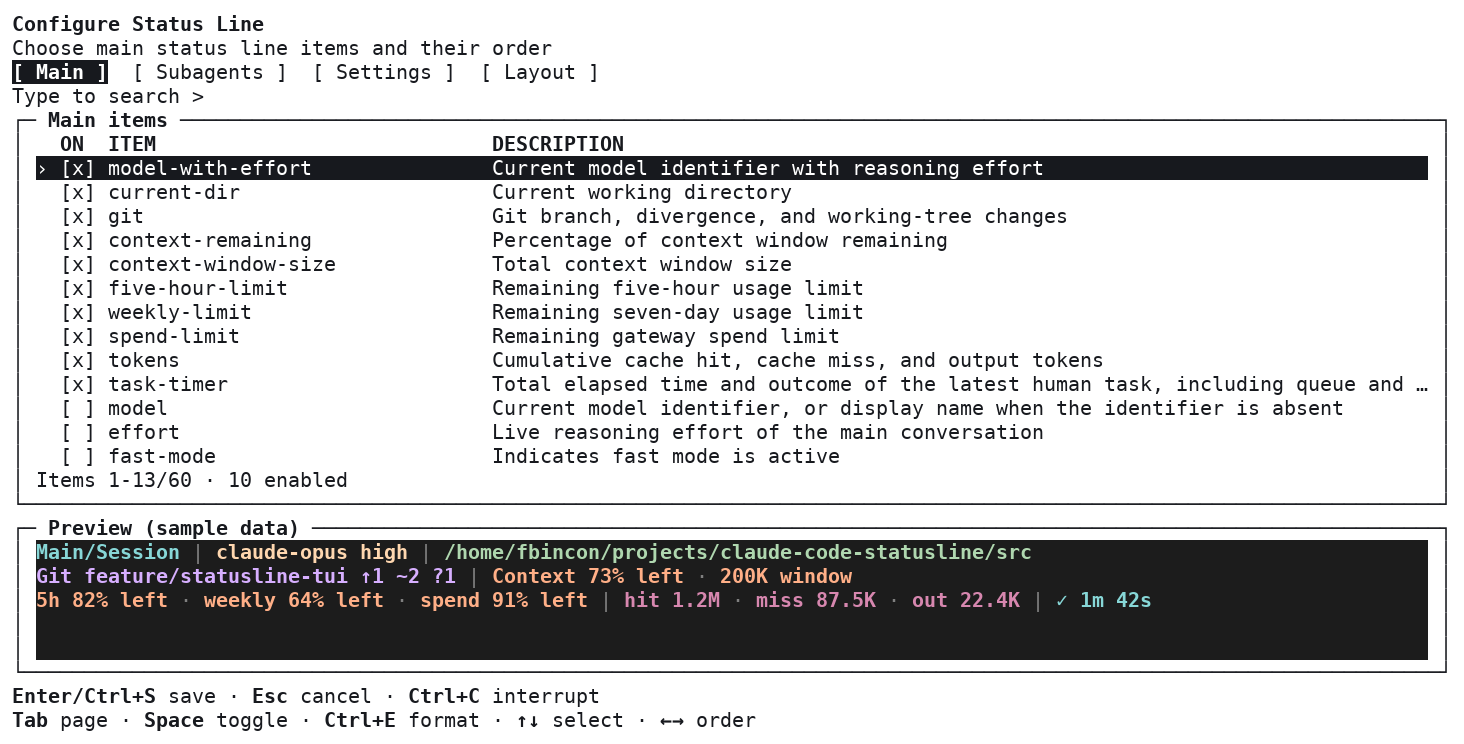
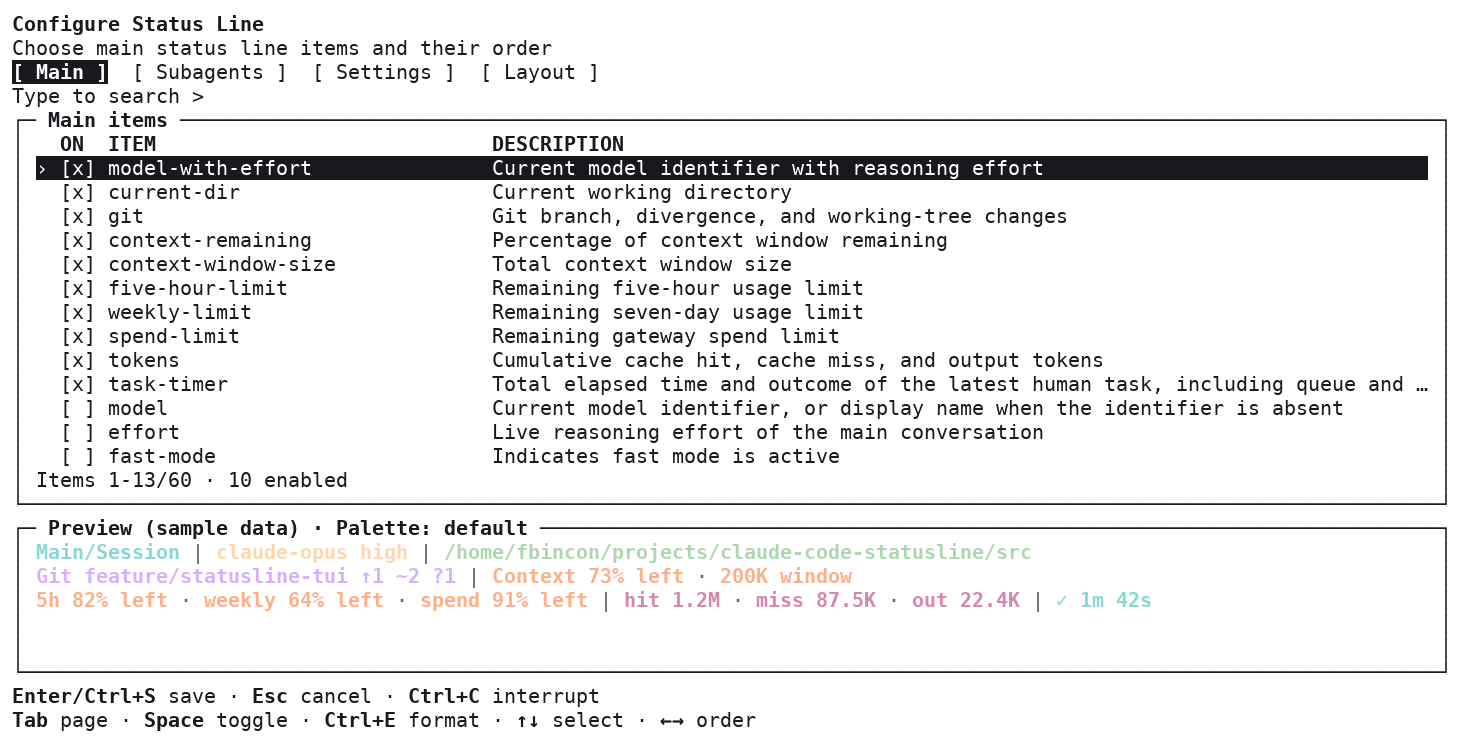
docs: compare default and ANSI previews on terminal backgrounds

Changed region(s): [[0.0, 0.6801, 0.9836, 0.8965]]

diff --git a/docs/images/README.md b/docs/images/README.md
@@ -38,7 +38,9 @@ images/
 │       │   ├── layout.png
 │       │   └── themes/
 │       │       ├── main-light.png
-│       │       └── main-dark.png
+│       │       ├── main-light-ansi.png
+│       │       ├── main-dark.png
+│       │       └── main-dark-ansi.png
 │       ├── windows/
 │       │   ├── main.png
 │       │   ├── subagents.png
@@ -46,7 +48,9 @@ images/
 │       │   ├── layout.png
 │       │   └── themes/
 │       │       ├── main-light.png
-│       │       └── main-dark.png
+│       │       ├── main-light-ansi.png
+│       │       ├── main-dark.png
+│       │       └── main-dark-ansi.png
 │       └── macos/
 │           ├── main.png
 │           ├── subagents.png
@@ -148,13 +152,15 @@ Two additional Linux images were reconstructed on 2026-10-09 from actual Claude 
 
 ## External terminal color captures
 
-These images reconstruct actual external TUI pane output at source commit `65b74992445de971693768ea2ead2f13e87845d0`, captured on 2026-10-09 in dedicated light/dark GNOME Terminal 3.58.0 / VTE 0.84.0 profiles attached to an isolated tmux 3.6 server. The installed 1.7.7 wheel was built from that exact commit; the editor is Python 3.14.4 on Linux x86_64. Both panes are 120×30 with default sample configuration.
+These images reconstruct actual external TUI output from source commit `416862536f775f603a83812283ea2ea104a81699`, captured on 2026-10-09 in dedicated light/dark GNOME Terminal 3.58.0 / VTE 0.84.0 profiles attached to isolated tmux 3.6 servers. The installed 1.7.7 wheel was built from that exact commit, on Linux x86_64 / Python 3.14.4; each pane is 120×30.
 
-The light profile uses foreground `#17191e` and background `#ffffff`; the dark profile uses `#dedee7` and `#17191e`. Both explicitly use the recorded xterm ANSI palette. Preview RGB targets quantize to terminal colors, including `#1c1c1c` background. All chrome, reversed selections, keys/descriptions and complete preview fill passed decoded-cell checks. Temporary profiles/windows/server were removed after capture, preserving the default profile.
+The light profile uses foreground `#17191e` and background `#ffffff`; the dark uses `#dedee7` and `#17191e`. Both copy the original default profile's GNOME ANSI palette with bold-is-bright disabled, recording its values in the capture. Previews inherit the terminal background and show the selected production palette; the default and ANSI screenshots show genuine palette differences, with capability-quantized RGB samples. ANSI was selected in the unsaved draft, then cancellation preserved configuration bytes. Chrome and reversed selections passed 4.5:1 contrast checks; sample colors are preserved so users can see low contrast and compare palettes.
 
-GNOME Shell denied the window screenshot API, so these are terminal reconstructions rather than OS screenshots or human acceptance. Raw ANSI, cell JSON and reports remain in ignored `dist/validation/v1.7.7-fixed-source/gnome`; `tools/render_native_capture.py` renders the recorded defaults and palette. The separate installed-wheel light/dark PTY suites cover five sizes and all four pages/forms; persistent Claude Code 2.1.295 tests verify both configuration entries at two sizes. Later documentation-only commits preserve the tested implementation.
+These are terminal reconstructions, not OS screenshots or human acceptance; GNOME Shell denied the earlier screenshot API attempt. Raw ANSI, decoded cells and reports remain in ignored `dist/validation/v1.7.7-terminal-source/gnome`. `tools/render_native_capture.py` reads the recorded defaults and ANSI palette. Separate five-size light/dark PTY suites check four pages/forms, palette changes, Colors off and saved ANSI production output. Temporary terminal profiles/windows/servers were removed and the original default profile was preserved. Later documentation-only commits retain the tested implementation.
 
-| Profile | Image | Captured JSON SHA256 | PNG SHA256 |
+| Terminal / Palette | Image | Captured JSON SHA256 | PNG SHA256 |
 | --- | --- | --- | --- |
[6 lines of base64/hex data omitted]

diff --git a/docs/images/README.zh-CN.md b/docs/images/README.zh-CN.md
@@ -38,7 +38,9 @@ images/
 │       │   ├── layout.png
 │       │   └── themes/
 │       │       ├── main-light.png
-│       │       └── main-dark.png
+│       │       ├── main-light-ansi.png
+│       │       ├── main-dark.png
+│       │       └── main-dark-ansi.png
 │       ├── windows/
 │       │   ├── main.png
 │       │   ├── subagents.png
@@ -46,7 +48,9 @@ images/
 │       │   ├── layout.png
 │       │   └── themes/
 │       │       ├── main-light.png
-│       │       └── main-dark.png
+│       │       ├── main-light-ansi.png
+│       │       ├── main-dark.png
+│       │       └── main-dark-ansi.png
 │       └── macos/
 │           ├── main.png
 │           ├── subagents.png
@@ -148,13 +152,15 @@ images/
 
 ## 外部终端配色捕获
 
-这些图片重建源码提交 `65b74992445de971693768ea2ead2f13e87845d0` 的实际外部 TUI pane 输出。2026-10-09 在独立浅色／深色 GNOME Terminal 3.58.0／VTE 0.84.0 配置中捕获，连接隔离的 tmux 3.6 服务器。已安装 1.7.7 wheel 从该固定提交构建，编辑器运行于 Linux x86_64／Python 3.14.4。两组 pane 均为 120×30，使用默认样例配置。
+这些图片重建源码提交 `416862536f775f603a83812283ea2ea104a81699` 的实际外部 TUI 输出。2026-10-09 在独立浅色／深色 GNOME Terminal 3.58.0／VTE 0.84.0 配置中捕获，连接隔离的 tmux 3.6 服务器。已安装 1.7.7 wheel 从该固定提交构建，运行于 Linux x86_64／Python 3.14.4，每个 pane 为 120×30。
 
-浅色配置使用 `#17191e` 前景和 `#ffffff` 背景，深色使用 `#dedee7` 与 `#17191e`；两组都明确使用记录的 xterm ANSI 调色板。预览 RGB 目标按终端能力量化，背景为 `#1c1c1c`。主界面、反色选择、按键／说明及预览完整填充均通过解码单元格检查。捕获后移除临时配置、窗口和服务器，保留默认终端配置。
+浅色配置使用 `#17191e` 前景和 `#ffffff` 背景，深色使用 `#dedee7` 与 `#17191e`。两组都复制原默认配置的 GNOME ANSI 调色板，关闭 bold-is-bright，并在捕获中记录颜色值。预览沿用终端背景和所选生产配色，default 与 ANSI 图片显示实际差异，RGB 样例按能力量化。ANSI 在未保存草稿中选择，随后取消，配置字节保持不变。主界面和反色选择通过 4.5:1 对比度检查；样例保留原色，让用户看到对比度不足并比较配色。
 
-GNOME Shell 拒绝窗口截图 API，因此这些是终端重建图，不代表系统截图或真人验收。原始 ANSI、单元格 JSON 与报告留在忽略的 `dist/validation/v1.7.7-fixed-source/gnome`，由 `tools/render_native_capture.py` 按记录的默认色及调色板绘制。另行运行的已安装 wheel 浅色／深色 PTY 套件覆盖五尺寸和四页／表单；Claude Code 2.1.295 持久安装检查在两种尺寸验证两个配置入口。后续仅文档提交保留已测试实现。
+这些是终端重建图，不代表系统截图或真人验收；GNOME Shell 拒绝了此前的截图 API 尝试。原始 ANSI、解码单元格和报告留在忽略的 `dist/validation/v1.7.7-terminal-source/gnome`，由 `tools/render_native_capture.py` 读取记录的默认色及 ANSI 调色板绘制。另行运行的五尺寸浅色／深色 PTY 套件检查四页／表单、切换配色、Colors off 和保存后的 ANSI 生产输出。临时终端配置、窗口和服务器已移除，原默认配置保留。后续仅文档提交保留已测试实现。
 
-| 配置 | 图片 | 捕获 JSON SHA256 | PNG SHA256 |
+| 终端／配色 | 图片 | 捕获 JSON SHA256 | PNG SHA256 |
 | --- | --- | --- | --- |
[6 lines of base64/hex data omitted]

diff --git a/docs/releases/v1.7.7.md b/docs/releases/v1.7.7.md
@@ -26,6 +26,8 @@ Python and both Mod release manifests are 1.7.7. The in-session editor continues
 
 Local checks passed 659 Python tests (651 passes, eight expected platform skips), 59 native and ten runtime official Mod tests on Claude Code 2.1.295, both TypeScript projects with exact 2.1.294 declarations, generated contracts, Ruff and documentation checks.
 
+Installed exact-source wheels passed five-size light/dark external PTYs, palette switching, Colors off, cancel/save readback and production ANSI rendering. Dedicated GNOME terminal captures compare both palettes on both backgrounds.
+
 Publication requires all 13 Python/build and ten fixed Mod CI jobs on the PR, merge commit and tag; complete local checks; exact-commit distributions and independent rebuilding; installed-package and 1.7.6 upgrade checks; five-size light/dark external PTYs; checksum verification; TestPyPI acceptance; and formal PyPI index installations. Platform evidence, reconstructed terminal images and human acceptance are recorded separately.
 
 <details>
@@ -58,6 +60,8 @@ Python 和两个 Mod 发布 manifest 为 1.7.7。内部编辑器继续使用 Cla
 ### 验证与发布
 
 本地通过 659 项 Python 测试（651 项通过、八项预期平台跳过）、Claude Code 2.1.295 的 59 项 native 与十项 runtime 官方 Mod 测试、使用准确 2.1.294 声明的两个 TypeScript 项目、生成契约、Ruff 和文档检查。
+
+固定源码 wheel 已通过五尺寸浅色／深色外部 PTY、切换配色、Colors off、取消／保存互读和 ANSI 生产渲染；独立 GNOME 终端捕获比较两种背景与两种配色。
 
 发布要求 PR、合并提交和标签的全部 13 项 Python／构建与十项固定 Mod CI、本地完整检查、固定提交分发包与独立重建、隔离安装及 1.7.6 升级、外部五尺寸浅色／深色 PTY、附件哈希、TestPyPI 验收和正式 PyPI 索引安装。平台证据、终端重建图与真人验收分别记录。
 

diff --git a/README.md b/README.md
@@ -107,13 +107,21 @@ Only Main was supplied for this batch. The existing interaction limitation and c
 Run `/statusline-configure` in Claude Code, or `claude-statusline configure` in a standalone terminal.
 
 <details>
-<summary>Linux: light and dark terminal backgrounds</summary>
+<summary>Linux: light/dark backgrounds and palette comparison</summary>
 
-Terminal-output reconstructions from dedicated GNOME Terminal profiles; [capture sources](docs/images/README.md#external-terminal-color-captures).
+Previews use the current terminal background and selected palette. Compare `ansi` in Settings when `default` looks faint. These are terminal-output reconstructions from dedicated GNOME profiles; [capture sources](docs/images/README.md#external-terminal-color-captures).
 
-![Linux external TUI on a light terminal](docs/images/tui/external/linux/themes/main-light.png)
+**Light background, Palette: default**
 
-![Linux external TUI on a dark terminal](docs/images/tui/external/linux/themes/main-dark.png)
+![Linux light terminal with default palette](docs/images/tui/external/linux/themes/main-light.png)
+
+**Light background, Palette: ansi**
+
+![Linux light terminal with ANSI palette](docs/images/tui/external/linux/themes/main-light-ansi.png)
+
+**Dark background, Palette: default**
+
+![Linux dark terminal with default palette](docs/images/tui/external/linux/themes/main-dark.png)
 
 </details>
 

diff --git a/README.zh-CN.md b/README.zh-CN.md
@@ -105,13 +105,21 @@
 在 Claude Code 中运行 `/statusline-configure`，或在独立终端运行 `claude-statusline configure`。
 
 <details>
-<summary>Linux：浅色与深色终端背景</summary>
+<summary>Linux：浅色／深色背景与配色比较</summary>
 
-来自独立 GNOME Terminal 配置的终端输出重建图，见[捕获来源](docs/images/README.zh-CN.md#外部终端配色捕获)。
+预览使用当前终端背景和所选配色，`default` 显得过淡时可在 Settings 比较 `ansi`。图片为独立 GNOME 配置的终端输出重建，见[捕获来源](docs/images/README.zh-CN.md#外部终端配色捕获)。
 
-![Linux 浅色终端下的外部 TUI](docs/images/tui/external/linux/themes/main-light.png)
+**浅色背景，Palette: default**
 
-![Linux 深色终端下的外部 TUI](docs/images/tui/external/linux/themes/main-dark.png)
+![Linux 浅色终端与 default 配色](docs/images/tui/external/linux/themes/main-light.png)
+
+**浅色背景，Palette: ansi**
+
+![Linux 浅色终端与 ANSI 配色](docs/images/tui/external/linux/themes/main-light-ansi.png)
+
+**深色背景，Palette: default**
+
+![Linux 深色终端与 default 配色](docs/images/tui/external/linux/themes/main-dark.png)
 
 </details>
 
